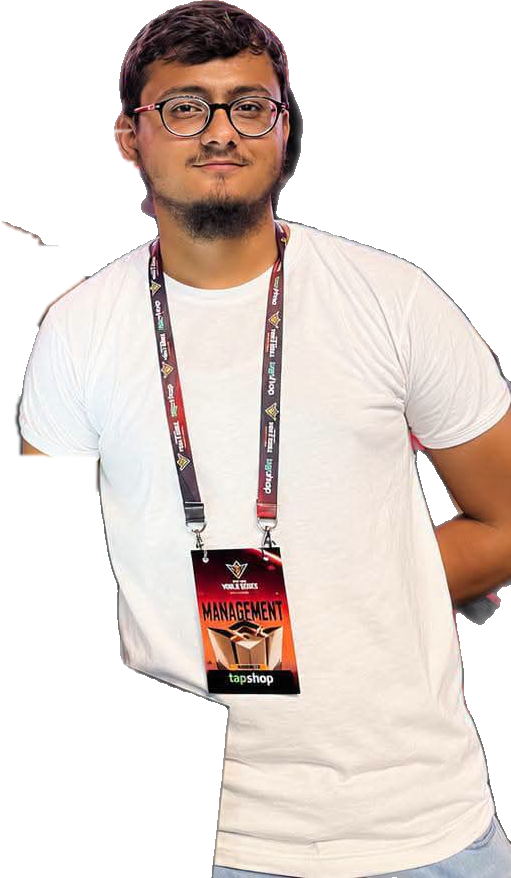
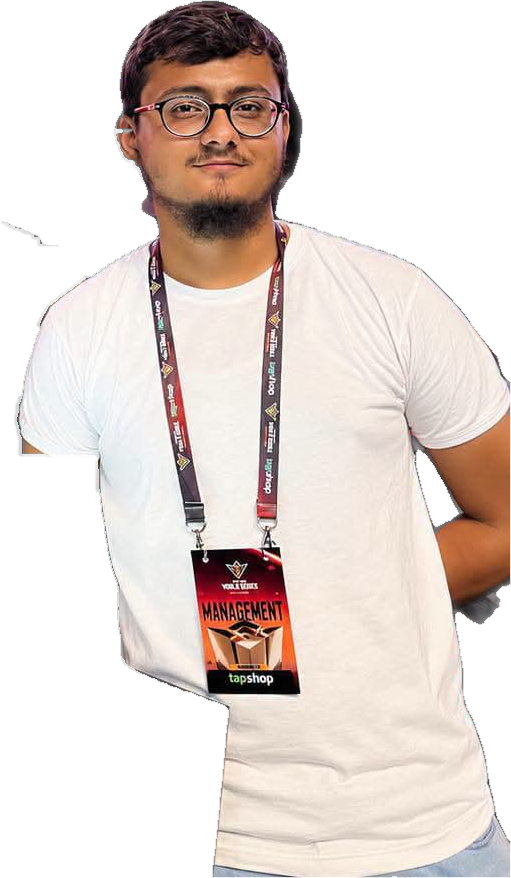
Portrait: defringe + edge cleanup; studio-glow card backdrop

diff --git a/styles.css b/styles.css
@@ -74,7 +74,7 @@ h2 .thin{color:transparent;-webkit-text-stroke:1.5px var(--ink)}
 
 /* portrait card (about) */
 .about-grid{display:grid;grid-template-columns:.9fr 1.1fr;gap:22px;align-items:stretch}
-.portrait-card{position:relative;background:var(--ink);border-radius:var(--radius);overflow:hidden;min-height:480px;display:flex;align-items:flex-end;justify-content:center;border:1px solid var(--ink)}
+.portrait-card{position:relative;background:radial-gradient(circle at 50% 32%,#33333a 0%,#1b1b1f 48%,#0c0c0e 78%);border-radius:var(--radius);overflow:hidden;min-height:480px;display:flex;align-items:flex-end;justify-content:center;border:1px solid var(--ink)}
 .about-grid .about-card{margin-top:0}
 .portrait-card img{position:absolute;inset:0;width:100%;height:100%;object-fit:contain;object-position:bottom center}
 .portrait-card .p-tag{position:absolute;top:18px;left:18px;background:#fff;color:var(--ink);font:500 9px var(--mono);letter-spacing:.14em;text-transform:uppercase;padding:9px 14px;border-radius:999px}
